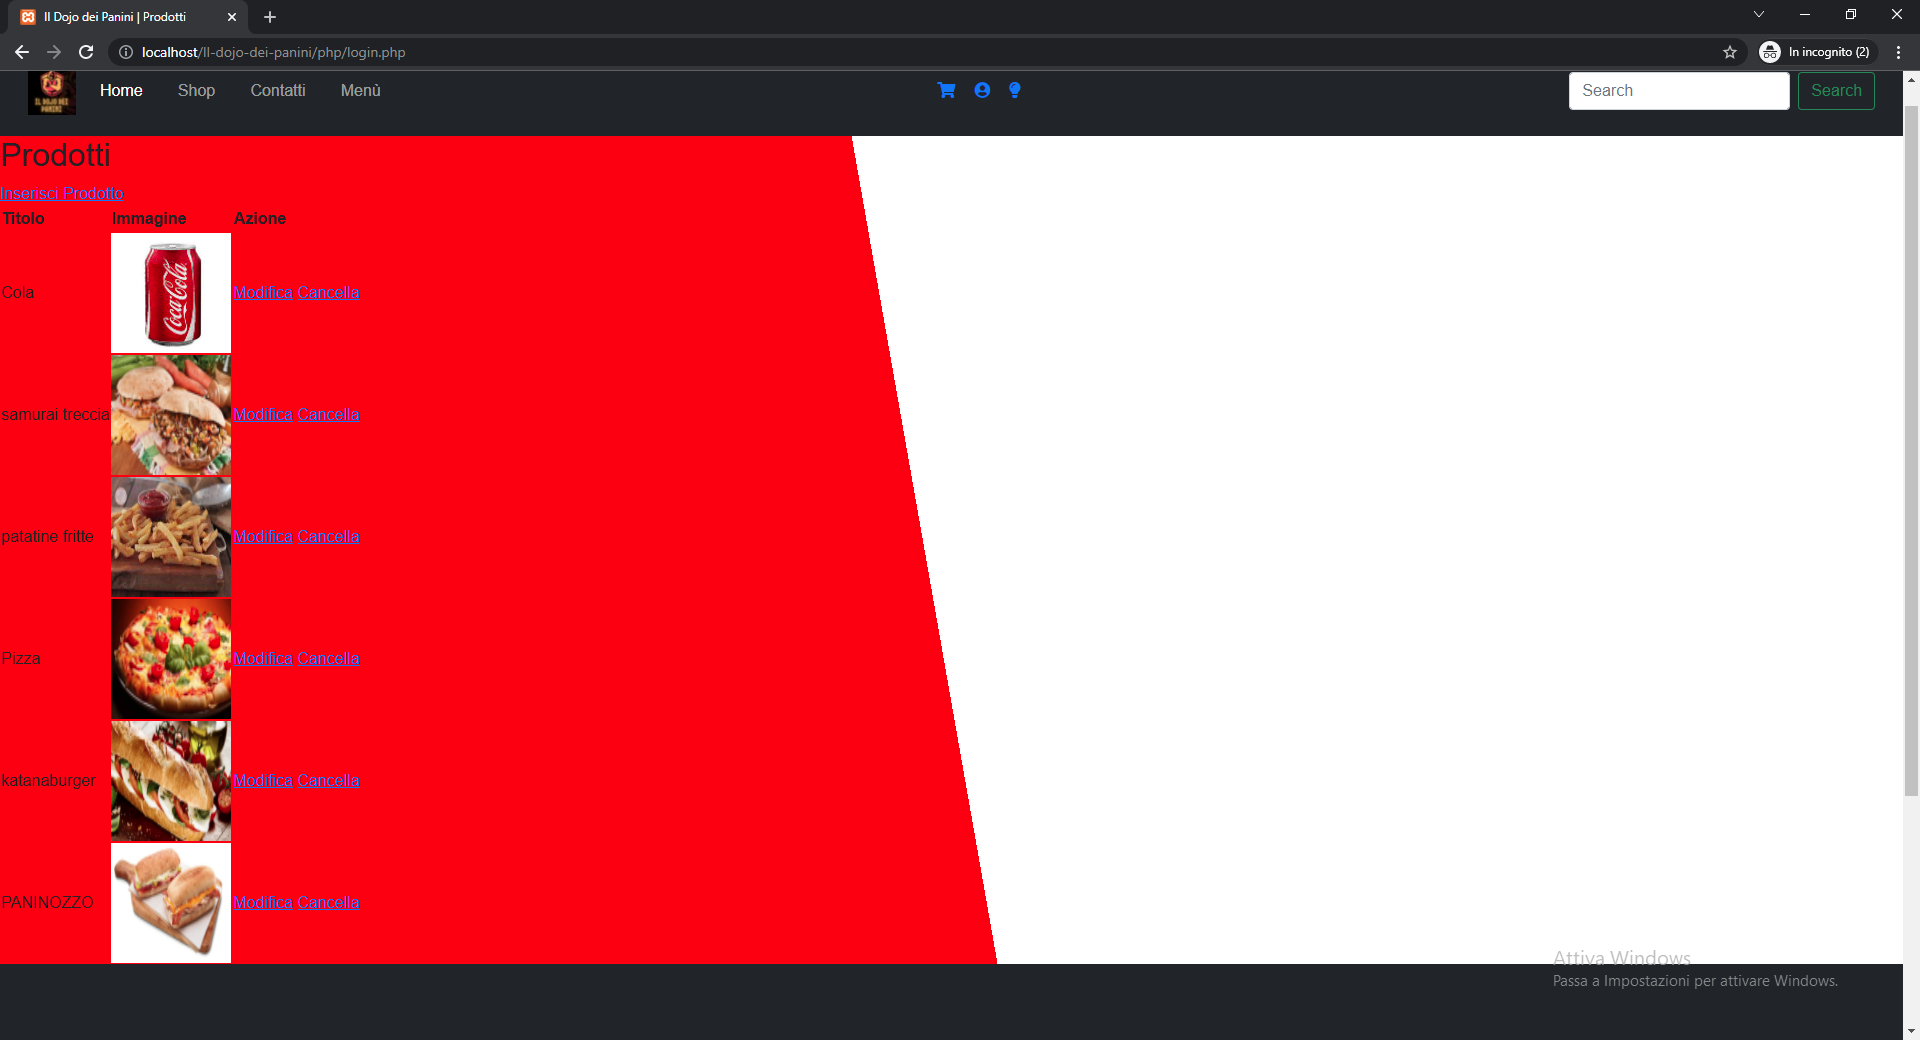
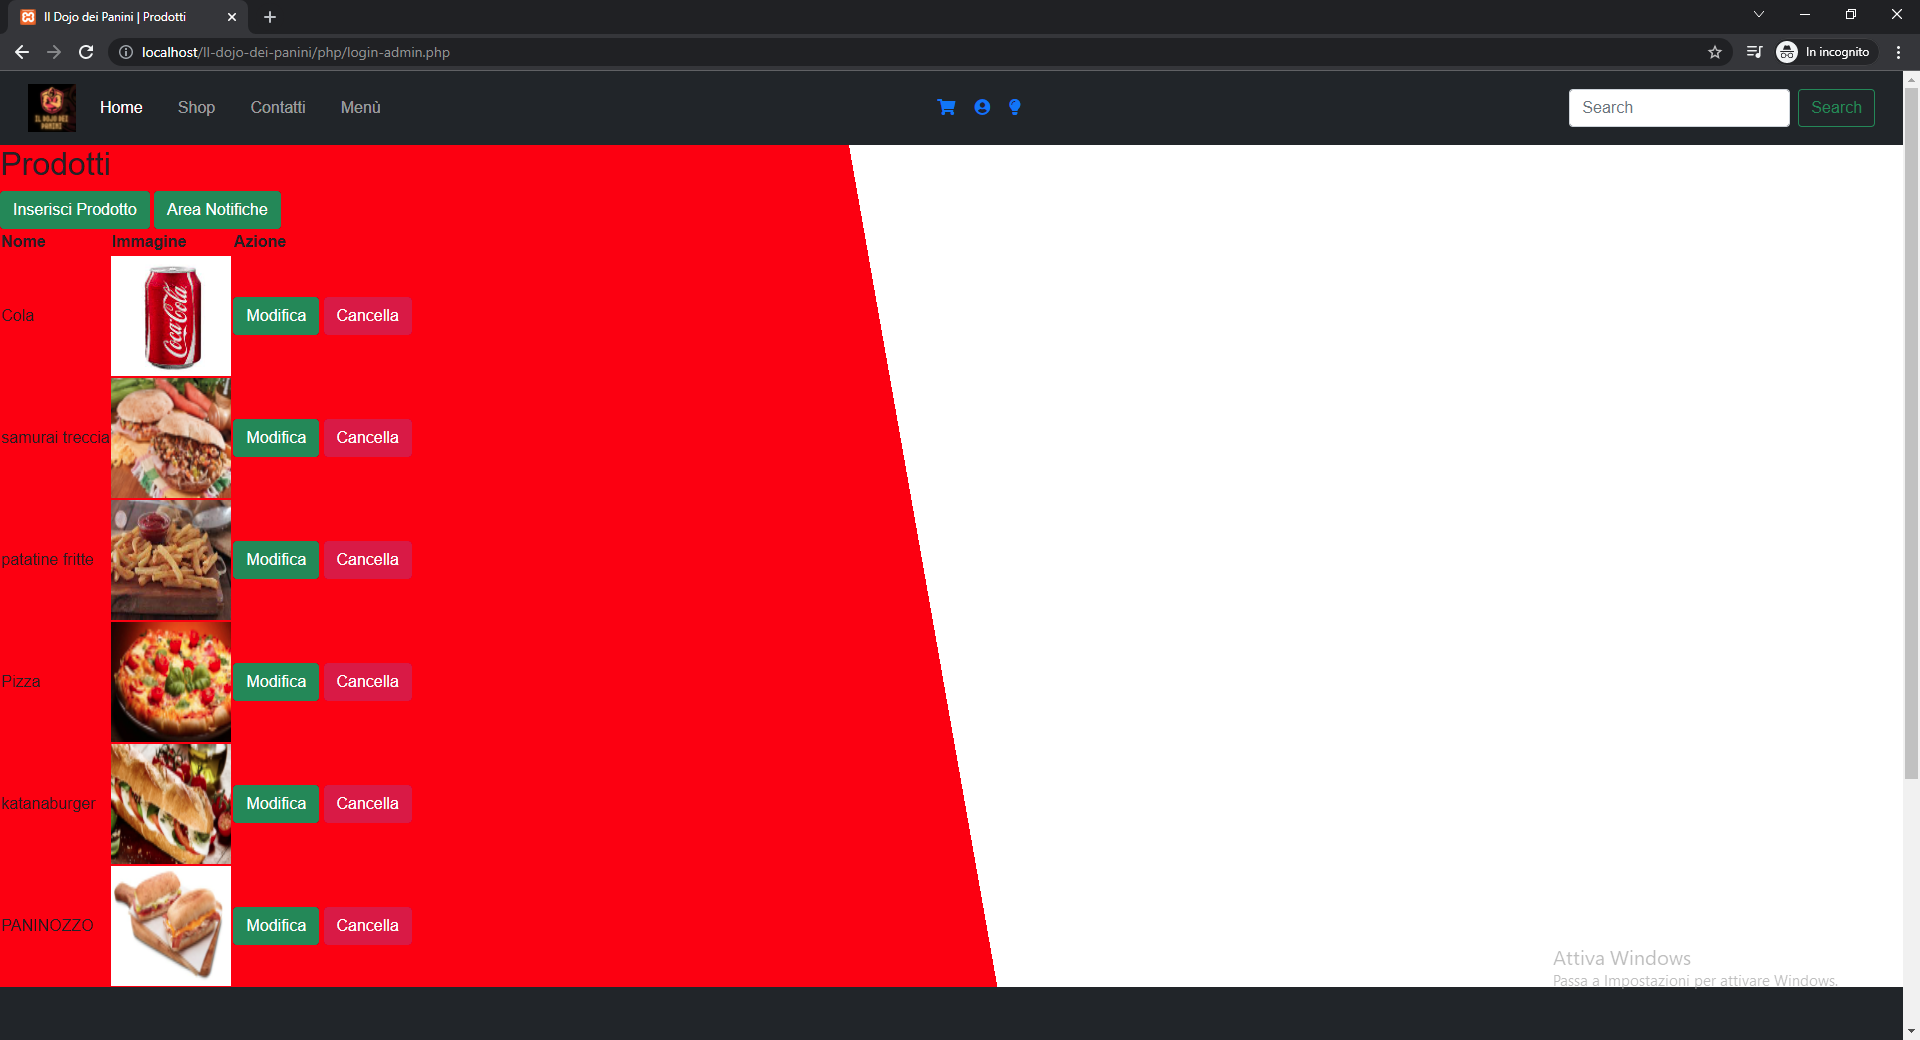
Add images and update report

diff --git a/report/main.tex b/report/main.tex
@@ -43,14 +43,15 @@
 
 \makeindex
 
-\title{\textbf{Progetto di tecnologie web report}}
-\author{Luca Rengo, Alessandro Pioggia}
+\title{\textbf{Progetto di Tecnologie Web Report}}
+\author{Luca Rengo | Alessandro Pioggia}
 
 \begin{document}
 	
 	\makeatletter
 	\begin{titlepage}
 		\begin{center}
+			\includegraphics[width=0.7\linewidth]{Images/logo/alma_mater_studiorum_cesena_logo.png}\\[4ex]
 			{\Huge  \@title }\\[3ex] 
 			{\large  \@author}\\[3ex] 
 			{\large \@date}
@@ -240,8 +241,54 @@
 		\caption{Pagina dell'Admin}
 		\label{fig:admin}
 	\end{figure}
+
+	\begin{figure}[H]
+		\begin{subfigure}{.6\textwidth}
+			\centering
+			\includegraphics[width=1\linewidth]{./Images/Admin_inserimento.png}
+			\caption{Pagina di inserimento del prodotto}
+			\label{fig:inserimento1}
+		\end{subfigure}
+		\begin{subfigure}{.6\textwidth}
+			\centering
+			%TODO: 
+			\includegraphics[width=1\linewidth]{./Images/Admin_inserimento2.png}
+			\caption{Prodotto inserito in lista}
+			\label{fig:inserimento2}
+		\end{subfigure}
+		%\caption{a}
+		\label{fig:inserimenti}
+	\end{figure}
+
+	\begin{figure}[H]
+		\begin{subfigure}{.6\textwidth}
+			\centering
+			\includegraphics[width=1\linewidth]{./Images/Admin_modifica_prodotto.png}
+			\caption{Pagina di modifica del prodotto}
+			\label{fig:modifica}
+		\end{subfigure}
+		\begin{subfigure}{.6\textwidth}
+			\centering
+			%TODO: 
+			\includegraphics[width=1\linewidth]{./Images/Admin_cancella_prodotto.png}
+			\caption{Prodotto cancellato dalla lista}
+			\label{fig:cancella}
+		\end{subfigure}
+		%\caption{a}
+		\label{fig:operazioni_sul_prodotto}
+	\end{figure}
+
+	\textsf{Una volta aggiunto, modificato o cancellato un prodotto, l'admin riceverà una notifica nella sua sezione \emph{Area Notifiche}.}\\
+	
+	\begin{figure}[H] 
+		\centering
+		\includegraphics[width=1.2\textwidth, height=1.2\textheight, keepaspectratio]{./Images/Admin_area_notifiche.png}
+		\caption{Area Notifiche}
+		\label{fig:notifiche}
+	\end{figure}
 	
 	% ======================== DOMINIO APPLICATIVO ===================================
+	%TODO: decidere se questa parte la vogliamo tenere o modificare, ecc..
 	
 	\newpage
 	
@@ -286,6 +333,7 @@
 	\end{itemize}
 
 	% ================= GUIDA UTENTE =================================================
+	%TODO: la guida utente è da tenere.
 	
 	\newpage
 
